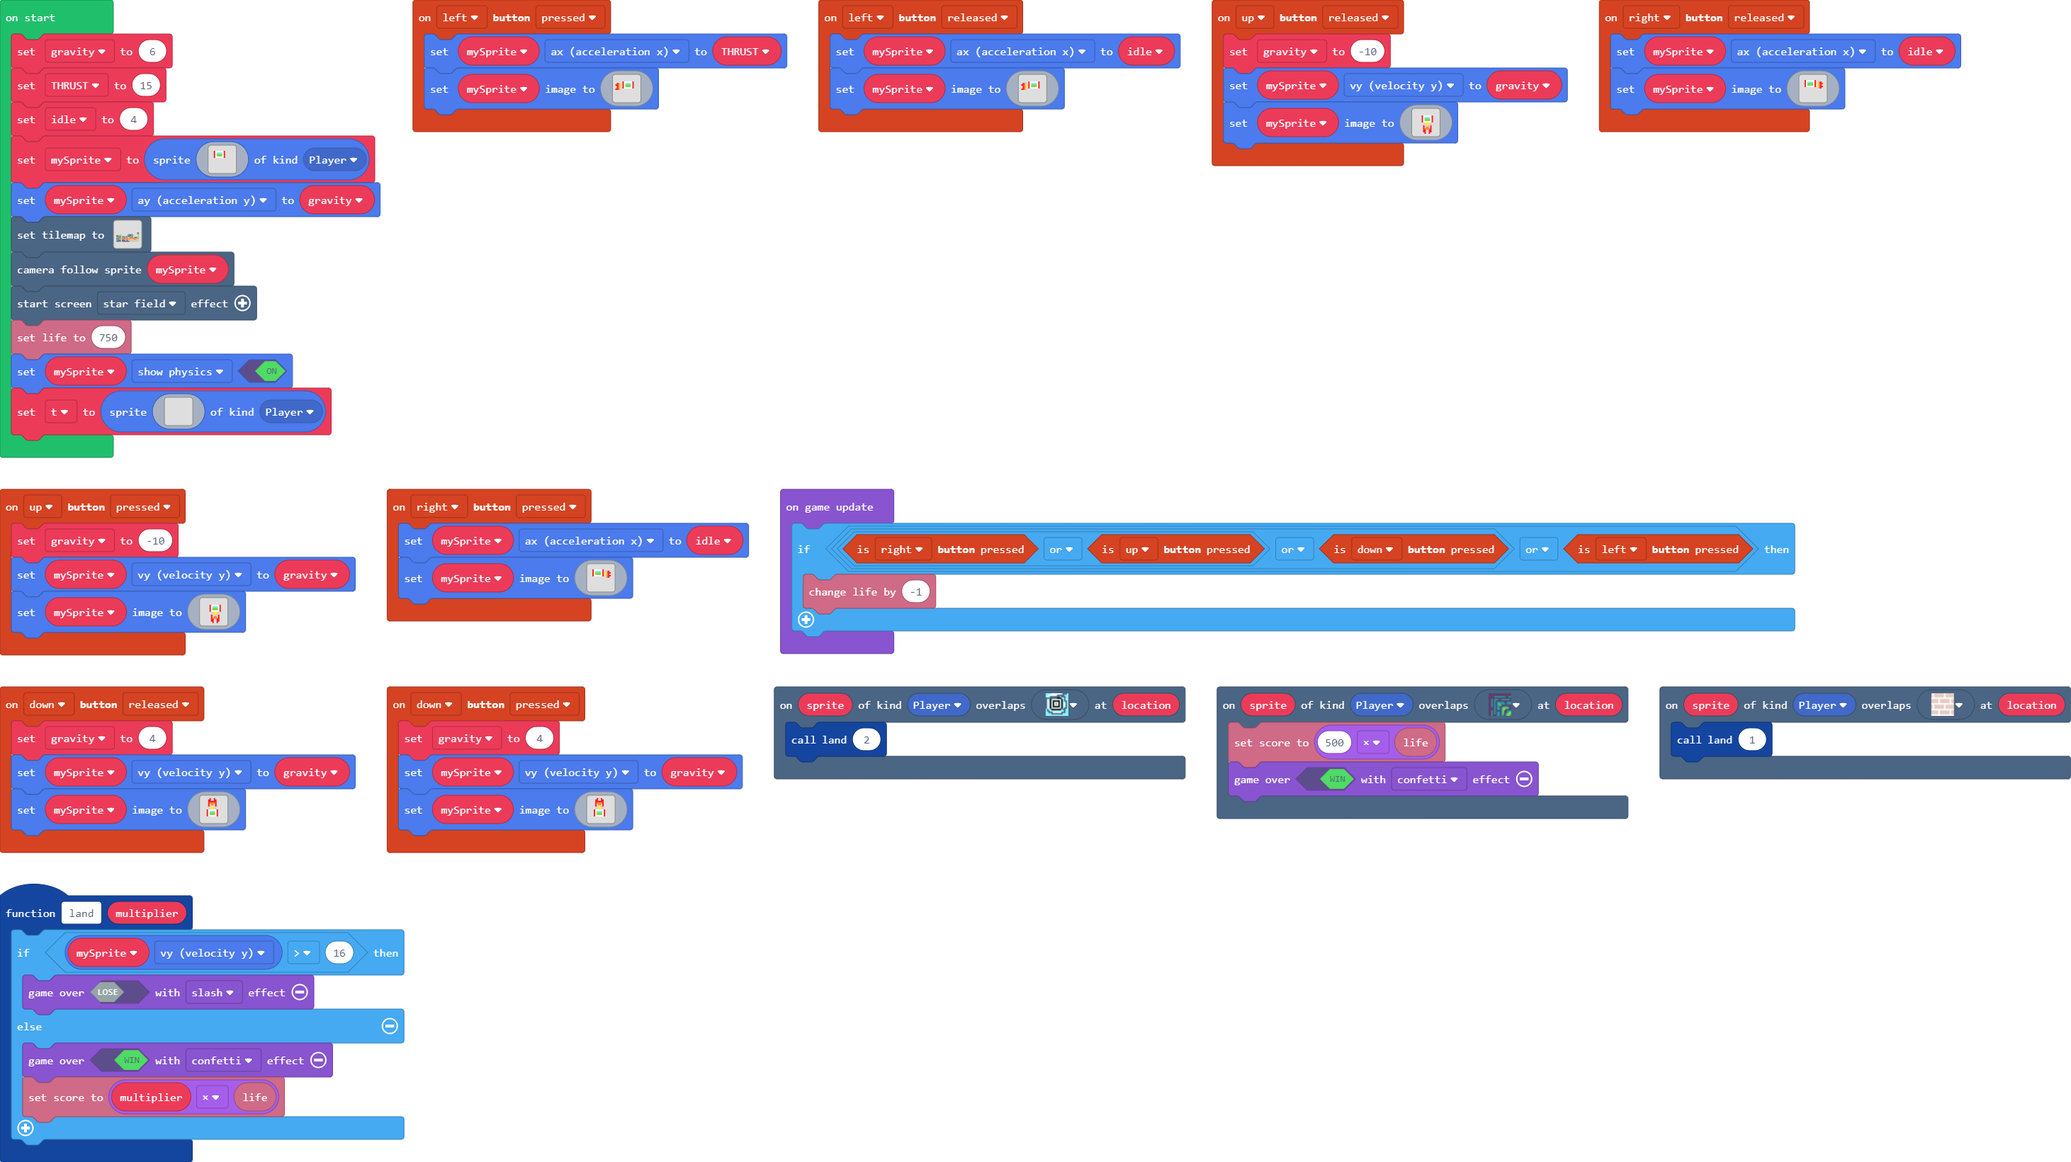
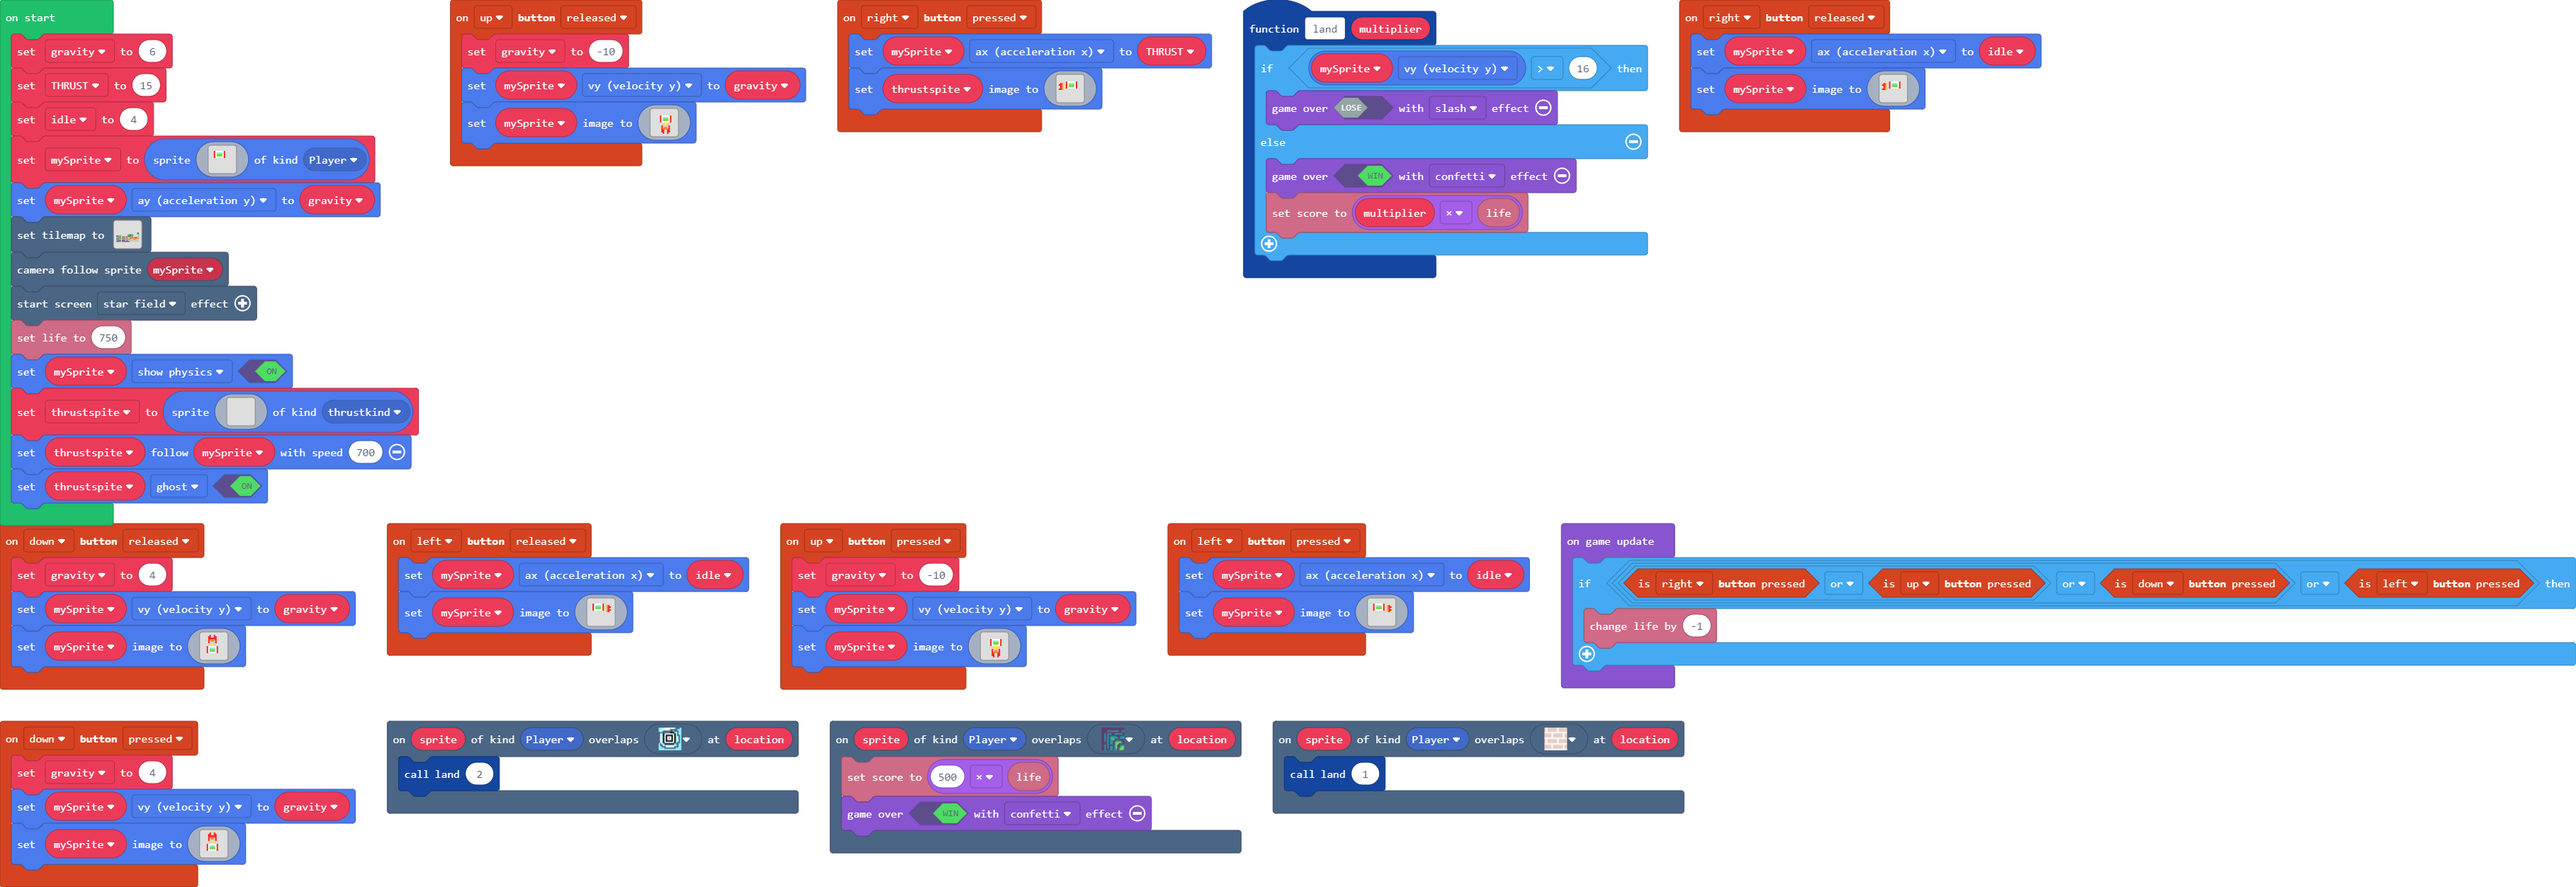
version before erasing sprite

diff --git a/main.ts b/main.ts
@@ -1,3 +1,7 @@
+namespace SpriteKind {
+    export const thrust = SpriteKind.create()
+    export const thrustkind = SpriteKind.create()
+}
 namespace myTiles {
     //% blockIdentity=images._tile
     export const tile0 = img`
@@ -95,7 +99,7 @@ f f f f f f f f f f f f f f f f
 9 9 9 9 9 9 9 9 9 9 9 9 9 9 9 9 
 `
 }
-controller.up.onEvent(ControllerButtonEvent.Pressed, function () {
+controller.up.onEvent(ControllerButtonEvent.Released, function () {
     gravity = -10
     mySprite.vy = gravity
     mySprite.setImage(img`
@@ -117,10 +121,28 @@ controller.up.onEvent(ControllerButtonEvent.Pressed, function () {
 . . . . . . . 2 . . 2 . . . . . 
 `)
 })
-scene.onOverlapTile(SpriteKind.Player, myTiles.tile4, function (sprite, location) {
-    land(2)
+controller.left.onEvent(ControllerButtonEvent.Pressed, function () {
+    mySprite.ax = idle
+    mySprite.setImage(img`
+. . . . . . . . . . . . . . . . 
+. . . . . . . . . . . . . . . . 
+. . 2 1 1 1 1 1 1 2 . . . . . . 
+. . 2 1 9 9 9 9 1 2 . d 4 2 . . 
+. . 2 1 7 7 7 7 1 2 d 5 4 2 2 . 
+. . 2 1 7 7 7 7 1 2 . d 4 2 . . 
+. . 2 1 1 1 1 1 1 2 d 5 4 2 2 . 
+. . . . . . . . . . . d 4 2 . . 
+. . . . . . . . . . . . . . . . 
+. . . . . . . . . . . . . . . . 
+. . . . . . . . . . . . . . . . 
+. . . . . . . . . . . . . . . . 
+. . . . . . . . . . . . . . . . 
+. . . . . . . . . . . . . . . . 
+. . . . . . . . . . . . . . . . 
+. . . . . . . . . . . . . . . . 
+`)
 })
-controller.down.onEvent(ControllerButtonEvent.Released, function () {
+controller.down.onEvent(ControllerButtonEvent.Pressed, function () {
     gravity = 4
     mySprite.vy = gravity
     mySprite.setImage(img`
@@ -150,9 +172,58 @@ function land (multiplier: number) {
         info.setScore(multiplier * info.life())
     }
 }
-controller.left.onEvent(ControllerButtonEvent.Pressed, function () {
-    mySprite.ax = THRUST
+scene.onOverlapTile(SpriteKind.Player, sprites.builtin.brick, function (sprite, location) {
+    land(1)
+})
+controller.left.onEvent(ControllerButtonEvent.Released, function () {
+    mySprite.ax = idle
     mySprite.setImage(img`
+. . . . . . . . . . . . . . . . 
+. . . . . . . . . . . . . . . . 
+. . 2 1 1 1 1 1 1 2 . . . . . . 
+. . 2 1 9 9 9 9 1 2 . d 4 2 . . 
+. . 2 1 7 7 7 7 1 2 d 5 4 2 2 . 
+. . 2 1 7 7 7 7 1 2 . d 4 2 . . 
+. . 2 1 1 1 1 1 1 2 d 5 4 2 2 . 
+. . . . . . . . . . . d 4 2 . . 
+. . . . . . . . . . . . . . . . 
+. . . . . . . . . . . . . . . . 
+. . . . . . . . . . . . . . . . 
+. . . . . . . . . . . . . . . . 
+. . . . . . . . . . . . . . . . 
+. . . . . . . . . . . . . . . . 
+. . . . . . . . . . . . . . . . 
+. . . . . . . . . . . . . . . . 
+`)
+})
+controller.down.onEvent(ControllerButtonEvent.Released, function () {
+    gravity = 4
+    mySprite.vy = gravity
+    mySprite.setImage(img`
+. . . . . 2 . . 2 . . . . . . . 
+. . . . 2 2 . . 2 2 . . . . . . 
+. . . . 2 2 2 2 2 2 . . . . . . 
+. . . . 2 4 4 4 4 2 . . . . . . 
+. . . . 2 d 4 4 d 2 . . . . . . 
+. . . . 2 d d d d 2 . . . . . . 
+. . . . d d 5 5 d d . . . . . . 
+. . . . d d 5 5 d d . . . . . . 
+. . . 2 1 1 1 1 1 1 2 . . . . . 
+. . . 2 1 9 9 9 9 1 2 . . . . . 
+. . . 2 1 7 7 7 7 1 2 . . . . . 
+. . . 2 1 7 7 7 7 1 2 . . . . . 
+. . . 2 1 1 1 1 1 1 2 . . . . . 
+. . . . . . . . . . . . . . . . 
+. . . . . . . . . . . . . . . . 
+. . . . . . . . . . . . . . . . 
+`)
+})
+scene.onOverlapTile(SpriteKind.Player, myTiles.tile4, function (sprite, location) {
+    land(2)
+})
+controller.right.onEvent(ControllerButtonEvent.Pressed, function () {
+    mySprite.ax = THRUST
+    thrustspite.setImage(img`
 . . . . . . . . . . . . . . . . 
 . . . . . . . . . . . . . . . . 
 . . . . . . . . . . . . . . . . 
@@ -176,27 +247,6 @@ controller.right.onEvent(ControllerButtonEvent.Released, function () {
     mySprite.setImage(img`
 . . . . . . . . . . . . . . . . 
 . . . . . . . . . . . . . . . . 
-. . 2 1 1 1 1 1 1 2 . . . . . . 
-. . 2 1 9 9 9 9 1 2 . d 4 2 . . 
-. . 2 1 7 7 7 7 1 2 d 5 4 2 2 . 
-. . 2 1 7 7 7 7 1 2 . d 4 2 . . 
-. . 2 1 1 1 1 1 1 2 d 5 4 2 2 . 
-. . . . . . . . . . . d 4 2 . . 
-. . . . . . . . . . . . . . . . 
-. . . . . . . . . . . . . . . . 
-. . . . . . . . . . . . . . . . 
-. . . . . . . . . . . . . . . . 
-. . . . . . . . . . . . . . . . 
-. . . . . . . . . . . . . . . . 
-. . . . . . . . . . . . . . . . 
-. . . . . . . . . . . . . . . . 
-`)
-})
-controller.left.onEvent(ControllerButtonEvent.Released, function () {
-    mySprite.ax = idle
-    mySprite.setImage(img`
-. . . . . . . . . . . . . . . . 
-. . . . . . . . . . . . . . . . 
 . . . . . . . . . . . . . . . . 
 . . . . . 2 1 1 1 1 1 1 2 . . . 
 . 2 4 d . 2 1 9 9 9 9 1 2 . . . 
@@ -213,28 +263,7 @@ controller.left.onEvent(ControllerButtonEvent.Released, function () {
 . . . . . . . . . . . . . . . . 
 `)
 })
-controller.right.onEvent(ControllerButtonEvent.Pressed, function () {
-    mySprite.ax = idle
-    mySprite.setImage(img`
-. . . . . . . . . . . . . . . . 
-. . . . . . . . . . . . . . . . 
-. . 2 1 1 1 1 1 1 2 . . . . . . 
-. . 2 1 9 9 9 9 1 2 . d 4 2 . . 
-. . 2 1 7 7 7 7 1 2 d 5 4 2 2 . 
-. . 2 1 7 7 7 7 1 2 . d 4 2 . . 
-. . 2 1 1 1 1 1 1 2 d 5 4 2 2 . 
-. . . . . . . . . . . d 4 2 . . 
-. . . . . . . . . . . . . . . . 
-. . . . . . . . . . . . . . . . 
-. . . . . . . . . . . . . . . . 
-. . . . . . . . . . . . . . . . 
-. . . . . . . . . . . . . . . . 
-. . . . . . . . . . . . . . . . 
-. . . . . . . . . . . . . . . . 
-. . . . . . . . . . . . . . . . 
-`)
-})
-controller.up.onEvent(ControllerButtonEvent.Released, function () {
+controller.up.onEvent(ControllerButtonEvent.Pressed, function () {
     gravity = -10
     mySprite.vy = gravity
     mySprite.setImage(img`
@@ -256,28 +285,11 @@ controller.up.onEvent(ControllerButtonEvent.Released, function () {
 . . . . . . . 2 . . 2 . . . . . 
 `)
 })
-controller.down.onEvent(ControllerButtonEvent.Pressed, function () {
-    gravity = 4
-    mySprite.vy = gravity
-    mySprite.setImage(img`
-. . . . . 2 . . 2 . . . . . . . 
-. . . . 2 2 . . 2 2 . . . . . . 
-. . . . 2 2 2 2 2 2 . . . . . . 
-. . . . 2 4 4 4 4 2 . . . . . . 
-. . . . 2 d 4 4 d 2 . . . . . . 
-. . . . 2 d d d d 2 . . . . . . 
-. . . . d d 5 5 d d . . . . . . 
-. . . . d d 5 5 d d . . . . . . 
-. . . 2 1 1 1 1 1 1 2 . . . . . 
-. . . 2 1 9 9 9 9 1 2 . . . . . 
-. . . 2 1 7 7 7 7 1 2 . . . . . 
-. . . 2 1 7 7 7 7 1 2 . . . . . 
-. . . 2 1 1 1 1 1 1 2 . . . . . 
-. . . . . . . . . . . . . . . . 
-. . . . . . . . . . . . . . . . 
-. . . . . . . . . . . . . . . . 
-`)
+scene.onOverlapTile(SpriteKind.Player, sprites.dungeon.greenInnerNorthWest, function (sprite, location) {
+    info.setScore(500 * info.life())
+    game.over(true, effects.confetti)
 })
+let thrustspite: Sprite = null
 let mySprite: Sprite = null
 let idle = 0
 let THRUST = 0
@@ -331,6 +343,26 @@ scene.cameraFollowSprite(mySprite)
 effects.starField.startScreenEffect()
 info.setLife(750)
 mySprite.setFlag(SpriteFlag.ShowPhysics, true)
+thrustspite = sprites.create(img`
+. . . . . . . . . . . . . . . . 
+. . . . . . . . . . . . . . . . 
+. . . . . . . . . . . . . . . . 
+. . . . . . . . . . . . . . . . 
+. . . . . . . . . . . . . . . . 
+. . . . . . . . . . . . . . . . 
+. . . . . . . . . . . . . . . . 
+. . . . . . . . . . . . . . . . 
+. . . . . . . . . . . . . . . . 
+. . . . . . . . . . . . . . . . 
+. . . . . . . . . . . . . . . . 
+. . . . . . . . . . . . . . . . 
+. . . . . . . . . . . . . . . . 
+. . . . . . . . . . . . . . . . 
+. . . . . . . . . . . . . . . . 
+. . . . . . . . . . . . . . . . 
+`, SpriteKind.thrustkind)
+thrustspite.follow(mySprite, 700)
+thrustspite.setFlag(SpriteFlag.Ghost, true)
 game.onUpdate(function () {
     if (controller.right.isPressed() || controller.up.isPressed() || controller.down.isPressed() || controller.left.isPressed()) {
         info.changeLifeBy(-1)
